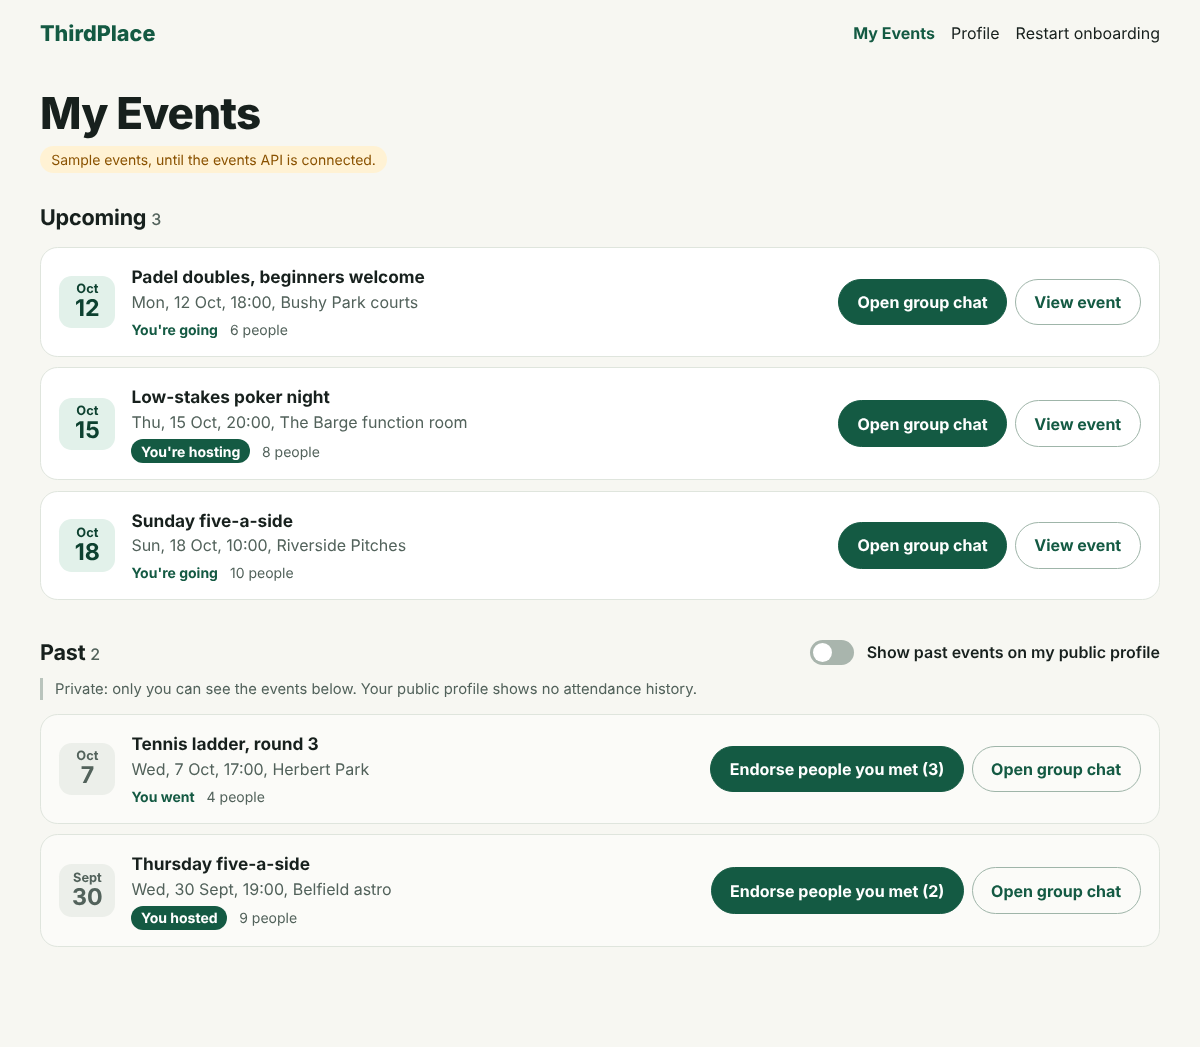
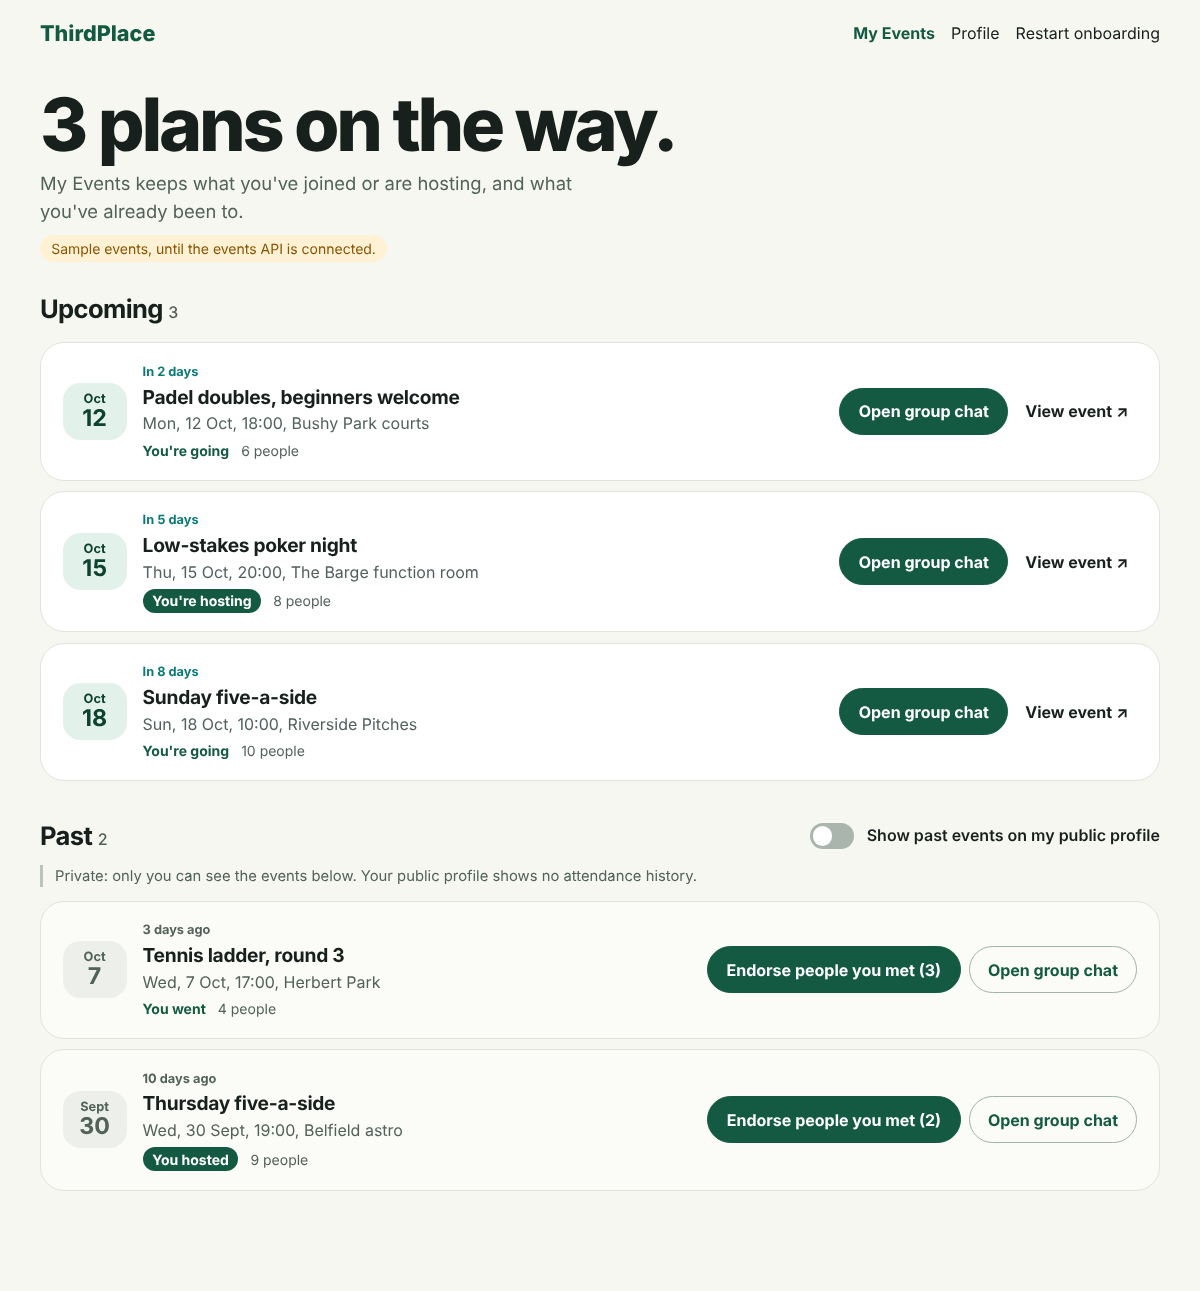
style: map header, larger headlines and emoji interest tags
Restyles Profile, My Events and onboarding towards the Mapstr and Manna
references: a map band behind the public profile card, bigger and tighter
headlines, emoji on interest tags, relative-day labels on events and
numbered onboarding steps.

Claude-Session: https://claude.ai/code/session_01TSpLLcjMmNwyMasHSNnUNU

diff --git a/apps/web/src/features/profile/profile.css b/apps/web/src/features/profile/profile.css
@@ -71,7 +71,7 @@
 .tp-chips { display: flex; flex-wrap: wrap; gap: 0.5rem; }
 .tp-chip { position: relative; }
 .tp-chip input { position: absolute; z-index: 1; inset: 0; opacity: 0; margin: 0; cursor: pointer; }
-.tp-chip span { display: block; padding: 0.5rem 0.95rem; border-radius: 999px; border: 1.5px solid #b9c4bc; background: #fff; font-weight: 550; }
+.tp-chip > span { display: block; padding: 0.5rem 0.95rem; border-radius: 999px; border: 1.5px solid #b9c4bc; background: #fff; font-weight: 550; }
 .tp-chip input:checked + span { background: var(--tp-green); border-color: var(--tp-green); color: #fff; }
 .tp-chip input:focus-visible + span { outline: 3px solid var(--tp-teal); outline-offset: 2px; }
 .tp-tags { display: flex; flex-wrap: wrap; gap: 0.4rem; }
@@ -201,11 +201,51 @@
 
 .topbar nav a[aria-current="page"] { font-weight: 750; color: #145a43; }
 
+/* Editorial scale, map header and status labels */
+.tp .tp-title-big { font-size: clamp(2.6rem, 6.2vw, 4.6rem); line-height: 0.96; letter-spacing: -0.045em; font-weight: 800; max-width: 14ch; }
+.tp-page-head .tp-lede, .tp-hero .tp-lede { font-size: 1.15rem; max-width: 46ch; }
+.tp-tagline { font-size: 0.85rem; font-weight: 700; color: var(--tp-green-deep); }
+
+.tp-hero { position: relative; border-radius: 2rem; overflow: hidden; margin: 0.5rem 0 1.25rem; padding: clamp(1.5rem, 4vw, 3rem); display: grid; gap: 1.5rem; align-content: space-between; min-height: 30rem; isolation: isolate; }
+.tp-map { position: absolute; inset: 0; z-index: -1; }
+.tp-map svg { width: 100%; height: 100%; display: block; }
+.tp-map::after { content: ""; position: absolute; inset: 0; background: linear-gradient(90deg, #eef3ec 0%, rgba(238, 243, 236, 0.94) 34%, rgba(238, 243, 236, 0) 62%); }
+.tp-map-land { fill: #eef3ec; }
+.tp-map-park { fill: #cfe6d3; }
+.tp-map-water { fill: none; stroke: #b9dfe3; stroke-width: 26; stroke-linecap: round; }
+.tp-map-streets path { fill: none; stroke: #fff; stroke-width: 13; stroke-linecap: round; }
+.tp-map-lanes path { fill: none; stroke: #fff; stroke-width: 5; stroke-linecap: round; opacity: 0.85; }
+.tp-map .tp-blob { filter: blur(11px); }
+.tp-map-label { position: absolute; right: 1.25rem; bottom: 1.25rem; z-index: 1; background: #fff; border-radius: 999px; padding: 0.5rem 1rem; display: flex; gap: 0.6rem; align-items: baseline; font-size: 0.9rem; box-shadow: 0 8px 20px -14px rgba(13, 65, 48, 0.6); }
+.tp-map-label span { color: var(--tp-muted); }
+.tp-hero-copy { display: grid; gap: 0.9rem; max-width: 34rem; }
+.tp-hero-card { display: grid; gap: 0.5rem; max-width: 24rem; }
+.tp-hero-card .tp-public { box-shadow: 0 18px 40px -22px rgba(13, 65, 48, 0.55); border-radius: 1.4rem; padding: 1.35rem; }
+
+.tp-panel { border-radius: 1.6rem; }
+.tp-chip > span { padding: 0.55rem 1rem; }
+.tp-area[data-plain] { grid-template-columns: minmax(0, 1fr); }
+.tp .tp-button-link { background: transparent; border-color: transparent; color: var(--tp-ink); padding-inline: 0.5rem; }
+.tp .tp-button-link:hover { background: transparent; border-color: transparent; text-decoration: underline; text-underline-offset: 4px; }
+.tp .tp-when { font-size: 0.8rem; font-weight: 750; color: var(--tp-teal); margin-bottom: 0.1rem; }
+.tp-event-past .tp-when { color: var(--tp-muted); }
+.tp-event { border-radius: 1.5rem; padding: 1.15rem 1.35rem; }
+.tp-event h3 { font-size: 1.2rem; letter-spacing: -0.015em; }
+.tp-date { border-radius: 1.1rem; width: 4rem; padding: 0.55rem 0; }
+.tp-myevents h2 { font-size: 1.6rem; letter-spacing: -0.025em; }
+.tp-steps li::before { content: counter(step, decimal-leading-zero) "  "; font-variant-numeric: tabular-nums; }
+.tp-person { border-radius: 1.5rem; }
+
 @media (max-width: 860px) {
   .tp-profile-grid { grid-template-columns: minmax(0, 1fr); }
-  .tp-sticky { position: static; grid-row: 1; }
+  .tp-sticky { position: static; }
 }
 @media (max-width: 620px) {
+  .tp-hero { padding: 0; min-height: 0; overflow: visible; border-radius: 0; gap: 1.1rem; }
+  .tp-map { position: relative; height: 11rem; border-radius: 1.4rem; overflow: hidden; z-index: 0; }
+  .tp-map::after { display: none; }
+  .tp-map-label { right: 0.75rem; bottom: 0.75rem; }
+  .tp-hero-card { max-width: none; }
   .tp-panel { padding: 1.1rem; border-radius: 1rem; }
   .tp-panel-narrow { padding: 1.25rem; }
   .tp-area { grid-template-columns: minmax(0, 1fr); }

diff --git a/apps/web/src/features/preferences/interests.ts b/apps/web/src/features/preferences/interests.ts
@@ -1,29 +1,33 @@
 import type { EventCategory } from "@social-outings/shared";
 
-export type Interest = { id: string; label: string; category: EventCategory };
+export type Interest = { id: string; label: string; emoji: string; category: EventCategory };
 
 /** Interest tags a person can pick. `category` maps each tag onto the shared event category. */
 export const INTERESTS: Interest[] = [
-  { id: "football", label: "Football", category: "sport" },
-  { id: "padel", label: "Padel", category: "sport" },
-  { id: "tennis", label: "Tennis", category: "sport" },
-  { id: "running", label: "Running", category: "sport" },
-  { id: "sea-swimming", label: "Sea swimming", category: "sport" },
-  { id: "climbing", label: "Climbing", category: "sport" },
-  { id: "hiking", label: "Hiking", category: "sport" },
-  { id: "yoga", label: "Yoga", category: "sport" },
-  { id: "poker", label: "Poker", category: "social" },
-  { id: "board-games", label: "Board games", category: "social" },
-  { id: "book-club", label: "Book club", category: "social" },
-  { id: "knitting", label: "Knitting", category: "social" },
-  { id: "coding", label: "Coding meetups", category: "social" },
-  { id: "live-music", label: "Live music", category: "music" },
-  { id: "trad-sessions", label: "Trad sessions", category: "music" },
-  { id: "coffee", label: "Coffee", category: "food" },
-  { id: "food-markets", label: "Food markets", category: "food" },
-  { id: "film", label: "Film nights", category: "other" }
+  { id: "football", label: "Football", emoji: "⚽", category: "sport" },
+  { id: "padel", label: "Padel", emoji: "🏓", category: "sport" },
+  { id: "tennis", label: "Tennis", emoji: "🎾", category: "sport" },
+  { id: "running", label: "Running", emoji: "🏃", category: "sport" },
+  { id: "sea-swimming", label: "Sea swimming", emoji: "🌊", category: "sport" },
+  { id: "climbing", label: "Climbing", emoji: "🧗", category: "sport" },
+  { id: "hiking", label: "Hiking", emoji: "🥾", category: "sport" },
+  { id: "yoga", label: "Yoga", emoji: "🧘", category: "sport" },
+  { id: "poker", label: "Poker", emoji: "🃏", category: "social" },
+  { id: "board-games", label: "Board games", emoji: "🎲", category: "social" },
+  { id: "book-club", label: "Book club", emoji: "📚", category: "social" },
+  { id: "knitting", label: "Knitting", emoji: "🧶", category: "social" },
+  { id: "coding", label: "Coding meetups", emoji: "💻", category: "social" },
+  { id: "live-music", label: "Live music", emoji: "🎸", category: "music" },
+  { id: "trad-sessions", label: "Trad sessions", emoji: "🎻", category: "music" },
+  { id: "coffee", label: "Coffee", emoji: "☕", category: "food" },
+  { id: "food-markets", label: "Food markets", emoji: "🥖", category: "food" },
+  { id: "film", label: "Film nights", emoji: "🎬", category: "other" }
 ];
 
 export function interestLabel(id: string): string {
   return INTERESTS.find((interest) => interest.id === id)?.label ?? id;
+}
+
+export function interestEmoji(id: string): string {
+  return INTERESTS.find((interest) => interest.id === id)?.emoji ?? "";
 }

diff --git a/apps/web/src/features/profile/ProfileView.tsx b/apps/web/src/features/profile/ProfileView.tsx
@@ -1,6 +1,8 @@
 import { useMemo, useState } from "react";
 import { checkDisplayName } from "../auth/ageValidation";
+import { AreaMap } from "../preferences/AreaMap";
 import { AreaRadiusPicker } from "../preferences/AreaRadiusPicker";
+import { areaName } from "../preferences/areas";
 import { InterestPicker } from "../preferences/InterestPicker";
 import { PhotoEditor } from "./Avatar";
 import { useProfile } from "./ProfileStore";
@@ -37,9 +39,16 @@ export function ProfileView() {
 
   return (
     <section className="tp tp-profile" aria-labelledby="tp-profile-heading">
-      <header className="tp-page-head">
-        <h1 id="tp-profile-heading" className="tp-title">Profile</h1>
-        <p className="tp-lede">Control what you share. The card shows your public profile exactly as others see it.</p>
+      <header className="tp-hero">
+        <AreaMap label={profile.areaId ? `${areaName(profile.areaId)} area` : "No area yet"} radiusKm={profile.radiusKm} />
+        <div className="tp-hero-copy">
+          <h1 id="tp-profile-heading" className="tp-title tp-title-big">Seen around, never pinned down.</h1>
+          <p className="tp-lede">This is your profile. People see your area, your interests and how trusted you are. Nothing more.</p>
+        </div>
+        <div className="tp-hero-card">
+          <p className="tp-tagline">What others see</p>
+          <PublicProfileCard profile={publicProfile} />
+        </div>
       </header>
       {storageProblem && (
         <p className="tp-banner" role="alert">This browser is blocking storage, so changes last only until you close this tab.</p>
@@ -80,6 +89,7 @@ export function ProfileView() {
             <h2 id="tp-where">Area and travel radius</h2>
             <p className="tp-callout">Only your approximate area is public. Your exact location is never stored or shown.</p>
             <AreaRadiusPicker areaId={profile.areaId} radiusKm={profile.radiusKm}
+              showDrawing={false}
               onAreaChange={(areaId) => { if (areaId) update({ areaId }); }} onRadiusChange={(radiusKm) => update({ radiusKm })} />
           </section>
 
@@ -108,11 +118,7 @@ export function ProfileView() {
           </section>
         </div>
 
-        <aside className="tp-stack tp-sticky" aria-label="How others see you">
-          <section className="tp-panel tp-panel-tint" aria-labelledby="tp-public-heading">
-            <h2 id="tp-public-heading">What others see</h2>
-            <PublicProfileCard profile={publicProfile} />
-          </section>
+        <aside className="tp-stack tp-sticky" aria-label="Trust">
           <section className="tp-panel" aria-labelledby="tp-trust">
             <h2 id="tp-trust">Trust score</h2>
             <div className="tp-score">

diff --git a/apps/web/src/features/profile/MyEventsView.tsx b/apps/web/src/features/profile/MyEventsView.tsx
@@ -32,7 +32,8 @@ export function MyEventsView({ events, onOpenChat, onOpenEvent, onEndorse, onFin
   return (
     <section className="tp tp-myevents" aria-labelledby="tp-myevents-heading">
       <header className="tp-page-head">
-        <h1 id="tp-myevents-heading" className="tp-title">My Events</h1>
+        <h1 id="tp-myevents-heading" className="tp-title tp-title-big">{headline(upcoming.length)}</h1>
+        <p className="tp-lede">My Events keeps what you've joined or are hosting, and what you've already been to.</p>
         {!events && <p className="tp-sample">Sample events, until the events API is connected.</p>}
       </header>
 
@@ -50,7 +51,7 @@ export function MyEventsView({ events, onOpenChat, onOpenEvent, onEndorse, onFin
                 <EventSummary event={event} />
                 <div className="tp-event-actions">
                   <button type="button" className="tp-button" onClick={() => onOpenChat(event.id)}>Open group chat</button>
-                  <button type="button" className="tp-button tp-button-quiet" onClick={() => onOpenEvent(event.id)}>View event</button>
+                  <button type="button" className="tp-button tp-button-link" onClick={() => onOpenEvent(event.id)}>View event <span aria-hidden="true">↗</span></button>
                 </div>
               </li>
             ))}
@@ -100,6 +101,22 @@ export function MyEventsView({ events, onOpenChat, onOpenEvent, onEndorse, onFin
   );
 }
 
+function headline(count: number): string {
+  if (count === 0) return "Nothing planned. Yet.";
+  if (count === 1) return "One plan on the way.";
+  return `${count} plans on the way.`;
+}
+
+/** "Tomorrow", "In 5 days", "3 days ago". */
+function relativeDay(date: Date): string {
+  const startOfDay = (value: Date) => new Date(value.getFullYear(), value.getMonth(), value.getDate()).getTime();
+  const days = Math.round((startOfDay(date) - startOfDay(new Date())) / 86400000);
+  if (days === 0) return "Today";
+  if (days === 1) return "Tomorrow";
+  if (days === -1) return "Yesterday";
+  return days > 0 ? `In ${days} days` : `${-days} days ago`;
+}
+
 function EventSummary({ event }: { event: MyEvent }) {
   const date = new Date(event.startsAt);
   return (
@@ -109,6 +126,7 @@ function EventSummary({ event }: { event: MyEvent }) {
         <strong>{date.getDate()}</strong>
       </time>
       <div>
+        <p className="tp-when">{relativeDay(date)}</p>
         <h3>{event.title}</h3>
         <p className="tp-muted">{when.format(date)}, {event.locationName}</p>
         <p className="tp-event-meta">

diff --git a/apps/web/src/features/preferences/AreaMap.tsx b/apps/web/src/features/preferences/AreaMap.tsx
@@ -1,0 +1,32 @@
+import { MAX_RADIUS_KM, MIN_RADIUS_KM } from "./areas";
+
+/**
+ * A wide, stylised map band. It is an illustration, not a real map: the shaded
+ * patch stands for the public area and the dashed ring grows with the travel radius.
+ * There is deliberately no pin.
+ */
+export function AreaMap({ label, radiusKm }: { label: string; radiusKm: number }) {
+  const ring = 52 + ((radiusKm - MIN_RADIUS_KM) / (MAX_RADIUS_KM - MIN_RADIUS_KM)) * 150;
+  return (
+    <div className="tp-map">
+      <svg viewBox="0 0 800 360" preserveAspectRatio="xMidYMid slice" role="img"
+        aria-label={`Illustrated map. Others see "${label}" as a shaded area, never a pin. Travel radius ${radiusKm} kilometres.`}>
+        <rect width="800" height="360" className="tp-map-land" />
+        <path className="tp-map-park" d="M610 30 q70 -20 110 30 q30 50 -20 90 q-60 30 -110 -10 q-30 -60 20 -110z" />
+        <path className="tp-map-park" d="M70 230 q50 -30 100 0 q30 40 0 80 q-60 30 -110 0 q-20 -50 10 -80z" />
+        <path className="tp-map-water" d="M-20 300 C120 250 220 330 380 290 S640 230 820 280" />
+        <g className="tp-map-streets">
+          <path d="M-20 90 C160 70 320 130 820 96" /><path d="M-20 190 C200 170 420 220 820 180" />
+          <path d="M150 -20 C170 120 130 240 160 380" /><path d="M330 -20 C310 110 350 250 320 380" />
+          <path d="M520 -20 C500 120 540 240 510 380" /><path d="M690 -20 C700 140 670 250 700 380" />
+        </g>
+        <g className="tp-map-lanes">
+          <path d="M-20 140 L820 150" /><path d="M-20 250 L820 236" /><path d="M240 -20 L250 380" /><path d="M430 -20 L420 380" /><path d="M610 -20 L600 380" />
+        </g>
+        <circle className="tp-ring" cx="560" cy="170" r={ring} />
+        <circle className="tp-blob" cx="560" cy="170" r="46" />
+      </svg>
+      <p className="tp-map-label"><strong>{label}</strong><span>{radiusKm} km travel radius</span></p>
+    </div>
+  );
+}

diff --git a/apps/web/src/features/preferences/AreaRadiusPicker.tsx b/apps/web/src/features/preferences/AreaRadiusPicker.tsx
@@ -7,10 +7,12 @@ type Props = {
   onAreaChange: (areaId: string) => void;
   onRadiusChange: (radiusKm: number) => void;
   error?: string;
+  /** Hide the small drawing when a larger AreaMap is already on screen. */
+  showDrawing?: boolean;
 };
 
 /** Area + travel radius, with a drawing that shows how coarse the public location is. */
-export function AreaRadiusPicker({ areaId, radiusKm, onAreaChange, onRadiusChange, error }: Props) {
+export function AreaRadiusPicker({ areaId, radiusKm, onAreaChange, onRadiusChange, error, showDrawing = true }: Props) {
   const areaField = useId();
   const radiusField = useId();
   const [locating, setLocating] = useState(false);
@@ -30,7 +32,7 @@ export function AreaRadiusPicker({ areaId, radiusKm, onAreaChange, onRadiusChang
   }
 
   return (
-    <div className="tp-area">
+    <div className="tp-area" data-plain={!showDrawing || undefined}>
       <div className="tp-area-fields">
         <div className="tp-field">
           <label className="tp-label" htmlFor={areaField}>Your area</label>
@@ -56,7 +58,7 @@ export function AreaRadiusPicker({ areaId, radiusKm, onAreaChange, onRadiusChang
           <p className="tp-hint">Events further away than this are left out of your feed.</p>
         </div>
       </div>
-      <AreaDrawing label={areaId ? areaName(areaId) : "No area yet"} radiusKm={radiusKm} />
+      {showDrawing && <AreaDrawing label={areaId ? areaName(areaId) : "No area yet"} radiusKm={radiusKm} />}
     </div>
   );
 }

diff --git a/apps/web/src/features/profile/PublicProfileCard.tsx b/apps/web/src/features/profile/PublicProfileCard.tsx
@@ -1,4 +1,4 @@
-import { interestLabel } from "../preferences/interests";
+import { interestEmoji, interestLabel } from "../preferences/interests";
 import { Avatar } from "./Avatar";
 import type { PublicProfile } from "./types";
 
@@ -22,7 +22,7 @@ export function PublicProfileCard({ profile }: { profile: PublicProfile }) {
         <p className="tp-muted">{[profile.ageRange && `Age ${profile.ageRange}`, profile.gender].filter(Boolean).join(", ")}</p>
       )}
       {profile.interests.length > 0
-        ? <ul className="tp-tags">{profile.interests.map((id) => <li key={id}>{interestLabel(id)}</li>)}</ul>
+        ? <ul className="tp-tags">{profile.interests.map((id) => <li key={id}><span aria-hidden="true">{interestEmoji(id)}</span> {interestLabel(id)}</li>)}</ul>
         : <p className="tp-muted">No interests added yet.</p>}
       {profile.pastEvents && (
         <div className="tp-public-history">

diff --git a/apps/web/src/features/preferences/InterestPicker.tsx b/apps/web/src/features/preferences/InterestPicker.tsx
@@ -13,7 +13,7 @@ export function InterestPicker({ selected, onChange, legend = "Interests", error
         {INTERESTS.map((interest) => (
           <label className="tp-chip" key={interest.id}>
             <input type="checkbox" checked={selected.includes(interest.id)} onChange={() => toggle(interest.id)} />
-            <span>{interest.label}</span>
+            <span><span aria-hidden="true">{interest.emoji}</span> {interest.label}</span>
           </label>
         ))}
       </div>

diff --git a/apps/web/src/features/preferences/index.ts b/apps/web/src/features/preferences/index.ts
@@ -1,6 +1,7 @@
 export { InterestPicker } from "./InterestPicker";
 export { AreaRadiusPicker } from "./AreaRadiusPicker";
-export { INTERESTS, interestLabel } from "./interests";
+export { AreaMap } from "./AreaMap";
+export { INTERESTS, interestLabel, interestEmoji } from "./interests";
 export type { Interest } from "./interests";
 export { AREAS, areaName, nearestArea, locateApproximateArea, MIN_RADIUS_KM, MAX_RADIUS_KM } from "./areas";
 export type { Area } from "./areas";
